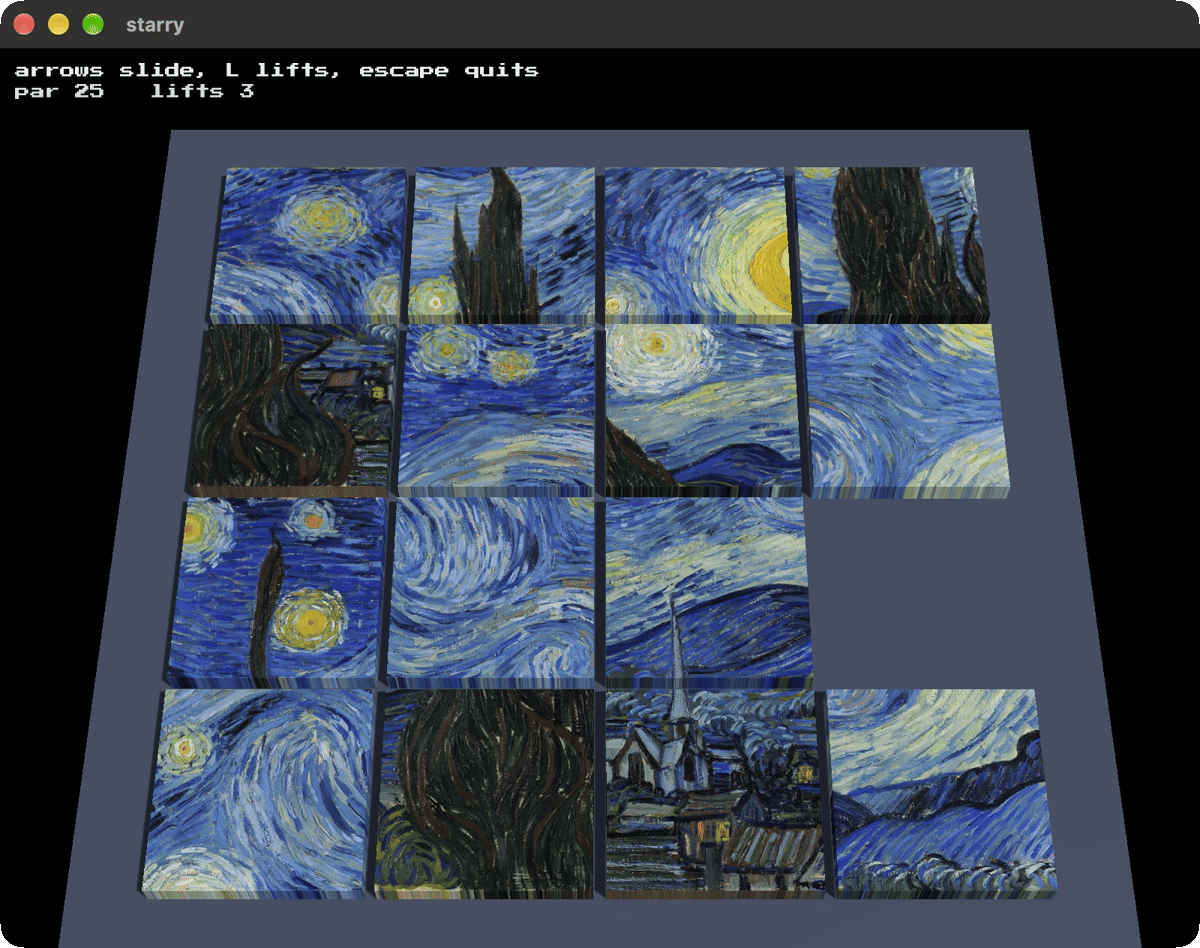
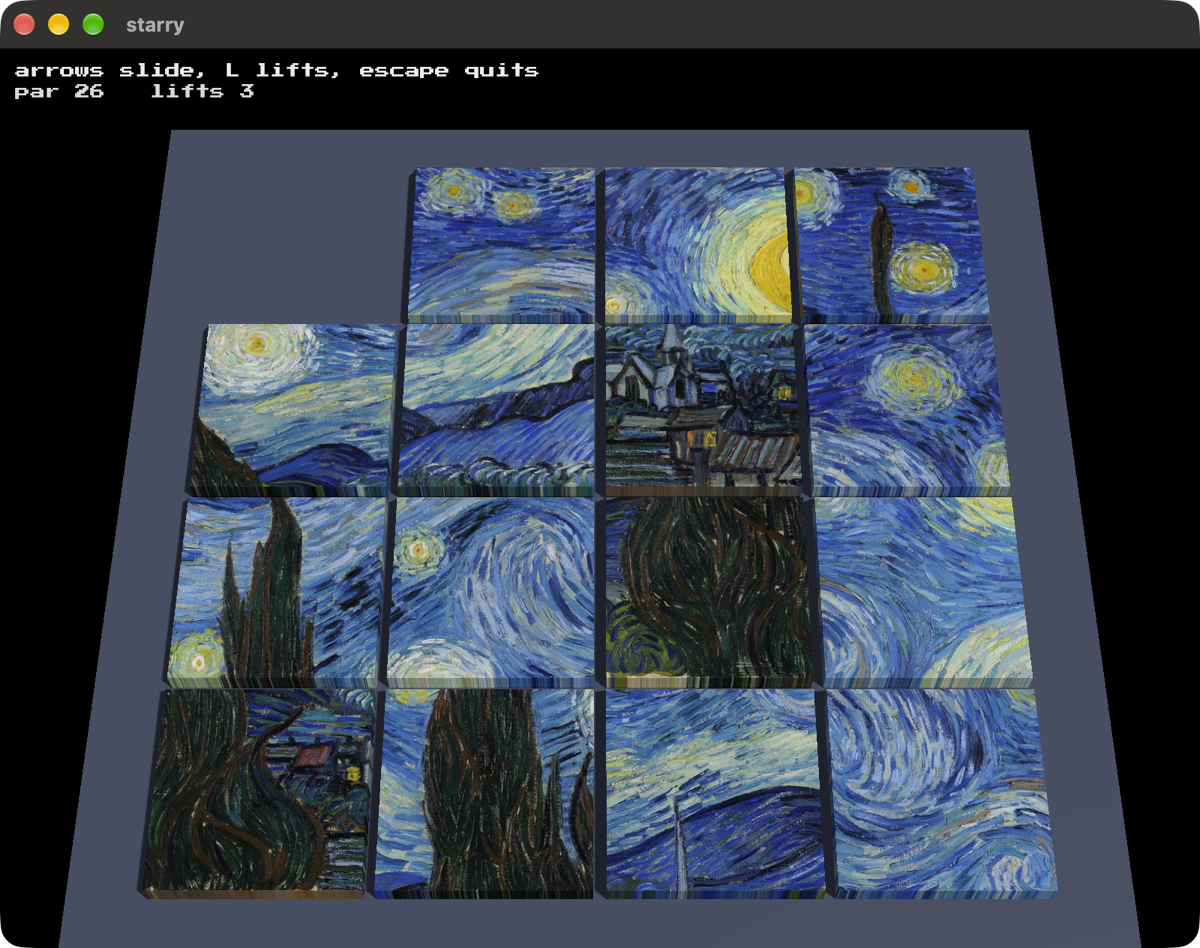
Hold the shuffled board for the camera
Takes --screenshot and stages nothing: the painting cut up and shuffled in its tray is where every run begins and is already the picture. It only stops anything that would move.

diff --git a/src/starry_game.rs b/src/starry_game.rs
@@ -237,6 +237,13 @@ impl Game for StarryGame {
         text_renderer: &mut TextRenderer,
         _sound_system: &SoundSystem,
     ) {
+        // the opening frame is this game's picture: the painting cut up and
+        // shuffled in its tray, which is where every run begins. So a staged
+        // run stages nothing and only stops anything that would move.
+        if crate::staged() {
+            self.motion = None;
+        }
+
         // the engine does not clear these, the game does, and a game that
         // forgets grows a vertex buffer until wgpu refuses to allocate it
         geometry.reset();

diff --git a/src/main.rs b/src/main.rs
@@ -9,6 +9,12 @@ mod tiles;
 use blitzkit::start;
 use starry_game::StarryGame;
 
+/// Whether this run is only here to be photographed, for `refresh-screenshots`
+/// in the project above.
+pub fn staged() -> bool {
+    std::env::args().any(|arg| arg == "--screenshot")
+}
+
 fn main() {
     start("starry", Box::new(StarryGame::new()));
 }

diff --git a/README.md b/README.md
@@ -5,6 +5,8 @@ a shadow.
 Fifteen slabs and a gap, and three lifts that take a tile out and put it down
 anywhere, which is the thing you are really spending.
 
+![Starry: the painting cut into sixteen thick tiles in a tray, one square empty, the cypress and the village broken across the wrong squares](media/screenshot.png)
+
 Built on [blitzkit](https://github.com/jvalol/blitzkit), the sixth game on that
 engine and the third in 3D.
 
